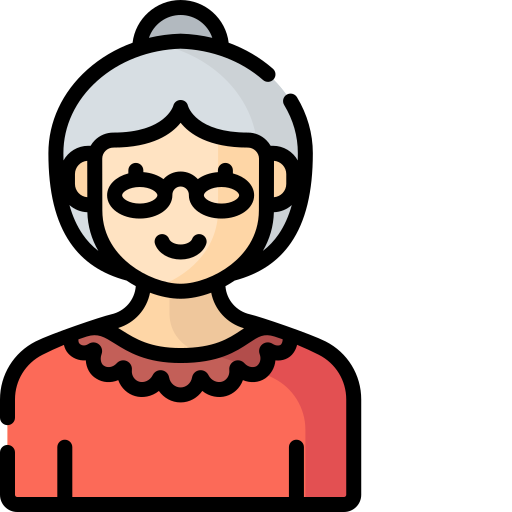
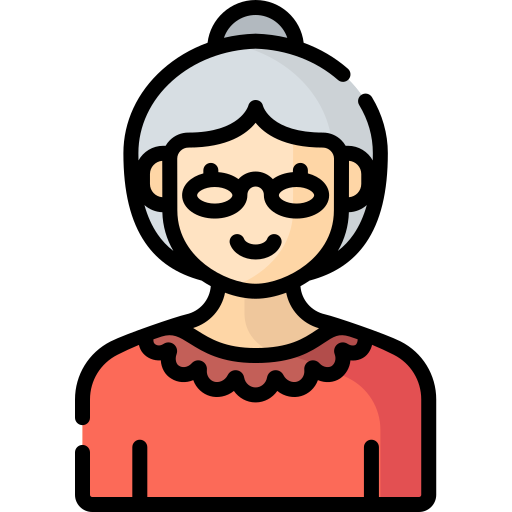
new image

diff --git a/covir/src/screens/ScegliVolontario2.js b/covir/src/screens/ScegliVolontario2.js
@@ -18,7 +18,7 @@ export default function ScegliVolontario({navigation}) { //non legge immagin
             activeScale={0.95} 
              // Only if no expo
             >
-            <Avatar rounded source={{ uri: 'https://raw.githubusercontent.com/enzop9898/Covir/main/covir/src/images/lente2.png' }}  avatarStyle={styles.icona} containerStyle={styles.immagine}></Avatar>
+            <Avatar rounded source={{ uri: 'https://raw.githubusercontent.com/enzop9898/Covir/main/covir/src/images/teenage.png' }}  avatarStyle={styles.icona} containerStyle={styles.immagine}></Avatar>
             <ListItem.Content>
                 <ListItem.Title style={{ color: 'white', fontWeight: 'bold' }}><Text>PER OVER 18</Text></ListItem.Title>
                 <ListItem.Subtitle style={{ color: 'white' }}><Text>20 disponibili</Text></ListItem.Subtitle>
@@ -32,7 +32,7 @@ export default function ScegliVolontario({navigation}) { //non legge immagin
             activeScale={0.95}
              // Only if no expo
             >
-            <Avatar rounded source={{ uri: 'https://st2.depositphotos.com/3469789/10721/v/950/depositphotos_107219688-stock-illustration-magnifying-glass-flat-icon.jpg' }} avatarStyle={styles.icona} containerStyle={styles.immagine}/>
+            <Avatar rounded source={{ uri: 'https://raw.githubusercontent.com/enzop9898/Covir/main/covir/src/images/actress.png' }} avatarStyle={styles.icona} containerStyle={styles.immagine}/>
             <ListItem.Content>
                 <ListItem.Title style={{ color: 'white', fontWeight: 'bold' }}><Text>PER OVER 30</Text></ListItem.Title>
                 <ListItem.Subtitle style={{ color: 'white' }}><Text>12 disponibili</Text></ListItem.Subtitle>
@@ -46,7 +46,7 @@ export default function ScegliVolontario({navigation}) { //non legge immagin
             activeScale={0.95} 
             // Only if no expo
             >
-            <Avatar rounded source={{ uri: 'https://st2.depositphotos.com/3469789/10721/v/950/depositphotos_107219688-stock-illustration-magnifying-glass-flat-icon.jpg' }} avatarStyle={styles.icona} containerStyle={styles.immagine} />
+            <Avatar rounded source={{ uri: 'https://raw.githubusercontent.com/enzop9898/Covir/main/covir/src/images/40.png' }} avatarStyle={styles.icona} containerStyle={styles.immagine} />
             <ListItem.Content>
                 <ListItem.Title style={{ color: 'white', fontWeight: 'bold' }}><Text>PER OVER 40</Text></ListItem.Title>
                 <ListItem.Subtitle style={{ color: 'white' }}><Text>30 disponibili</Text></ListItem.Subtitle>
@@ -60,7 +60,7 @@ export default function ScegliVolontario({navigation}) { //non legge immagin
             activeScale={0.95} 
              // Only if no expo
             >
-            <Avatar rounded source={{ uri: 'https://st2.depositphotos.com/3469789/10721/v/950/depositphotos_107219688-stock-illustration-magnifying-glass-flat-icon.jpg' }} avatarStyle={styles.icona} containerStyle={styles.immagine}/>
+            <Avatar rounded source={{ uri: 'https://raw.githubusercontent.com/enzop9898/Covir/main/covir/src/images/grandmother.png' }} avatarStyle={styles.icona} containerStyle={styles.immagine2}/>
             <ListItem.Content>
                 <ListItem.Title style={{ color: 'white', fontWeight: 'bold' }}><Text>PER OVER 60</Text></ListItem.Title>
                 <ListItem.Subtitle style={{ color: 'white' }}><Text>1 disponibili</Text></ListItem.Subtitle>
@@ -114,6 +114,14 @@ const styles = StyleSheet.create({
                
     },
     immagine:{
+        borderTopLeftRadius:17,
+        borderTopRightRadius:17,
+        height: '100%',
+        width: '25%',
+        paddingLeft: '0%',
+        marginLeft: '0%'
+    },
+    immagine2:{
         borderTopLeftRadius:17,
         borderTopRightRadius:17,
         height: '100%',
